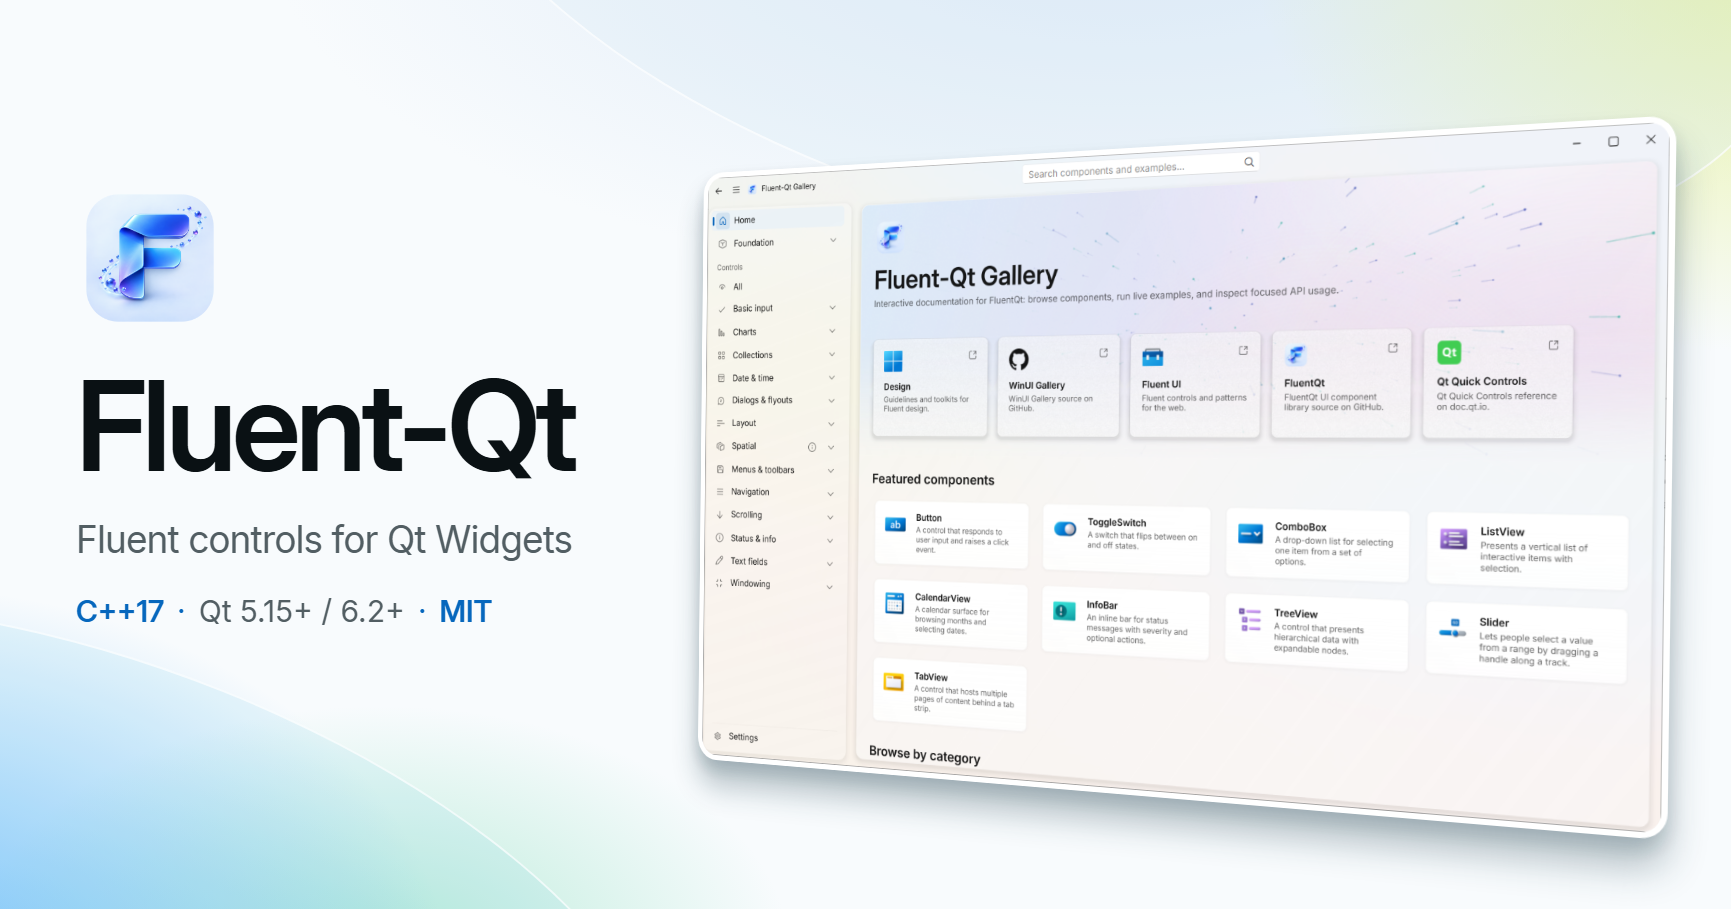
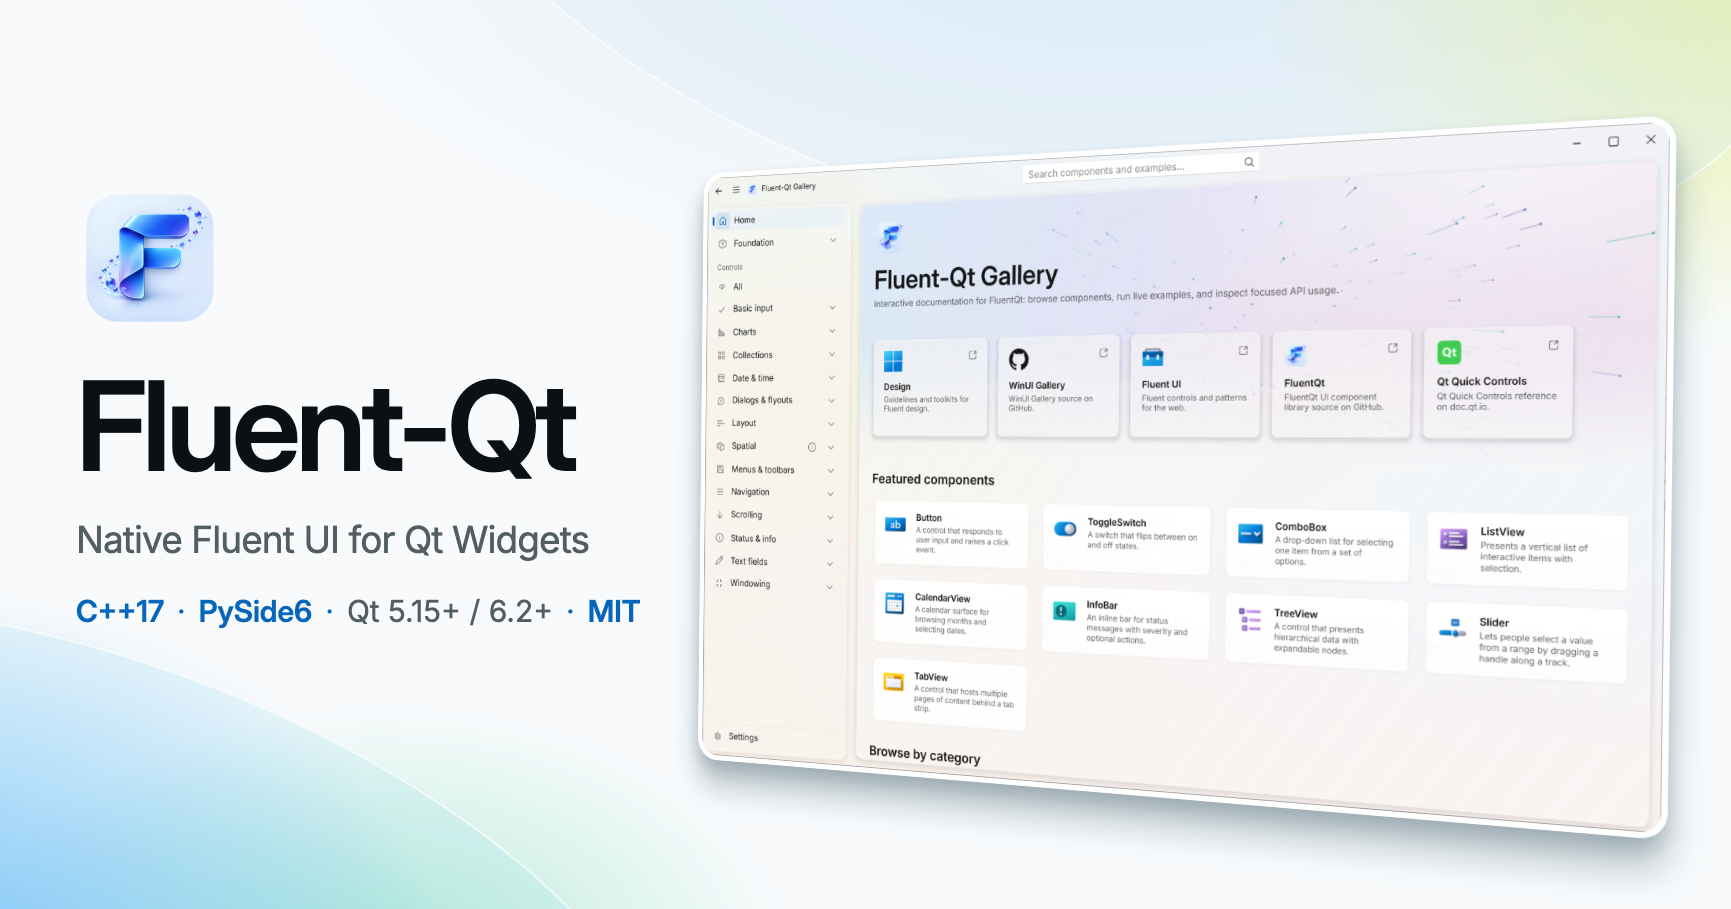
perf(site): reduce the sharing card size and show PySide6 support

Changed region(s): [[0.0936, 0.6469, 0.3744, 0.7085], [0.0312, 0.5545, 0.3432, 0.6161], [0.0936, 0.4928, 0.1248, 0.5237]]

diff --git a/tools/site/promo-assets.html b/tools/site/promo-assets.html
@@ -97,7 +97,7 @@
         z-index: 1;
         top: 184px;
         left: 76px;
-        width: 610px;
+        width: 660px;
       }
 
       .brand-icon { width: 148px; height: 148px; border-radius: 24%; }
@@ -171,8 +171,8 @@
       <div class="brand">
         <img class="brand-icon" src="../../app/assets/app-icon.png" width="148" height="148" alt="">
         <h1>Fluent-Qt</h1>
-        <p class="tagline">Fluent controls for Qt Widgets</p>
-        <p class="requirements"><strong>C++17</strong><span class="separator">·</span><span>Qt 5.15+ / 6.2+</span><span class="separator">·</span><strong>MIT</strong></p>
+        <p class="tagline">Native Fluent UI for Qt Widgets</p>
+        <p class="requirements"><strong>C++17</strong><span class="separator">·</span><strong>PySide6</strong><span class="separator">·</span><span>Qt 5.15+ / 6.2+</span><span class="separator">·</span><strong>MIT</strong></p>
       </div>
       <div class="product">
         <figure class="product-window">

diff --git a/tools/site/generate_promo_assets.py b/tools/site/generate_promo_assets.py
@@ -56,6 +56,11 @@ def main() -> int:
                 output = output_root / relative
                 output.parent.mkdir(parents=True, exist_ok=True)
                 with Image.open(BytesIO(png)) as screenshot:
+                    if selector == "#social":
+                        # Round RGB channels to even levels, preserving pure white.
+                        # This changes each channel by at most one level and improves PNG compression.
+                        levels = [value if value == 255 else value & ~1 for value in range(256)]
+                        screenshot = screenshot.convert("RGB").point(levels * 3)
                     screenshot.save(output, optimize=True)
                 print(output)
         finally:
